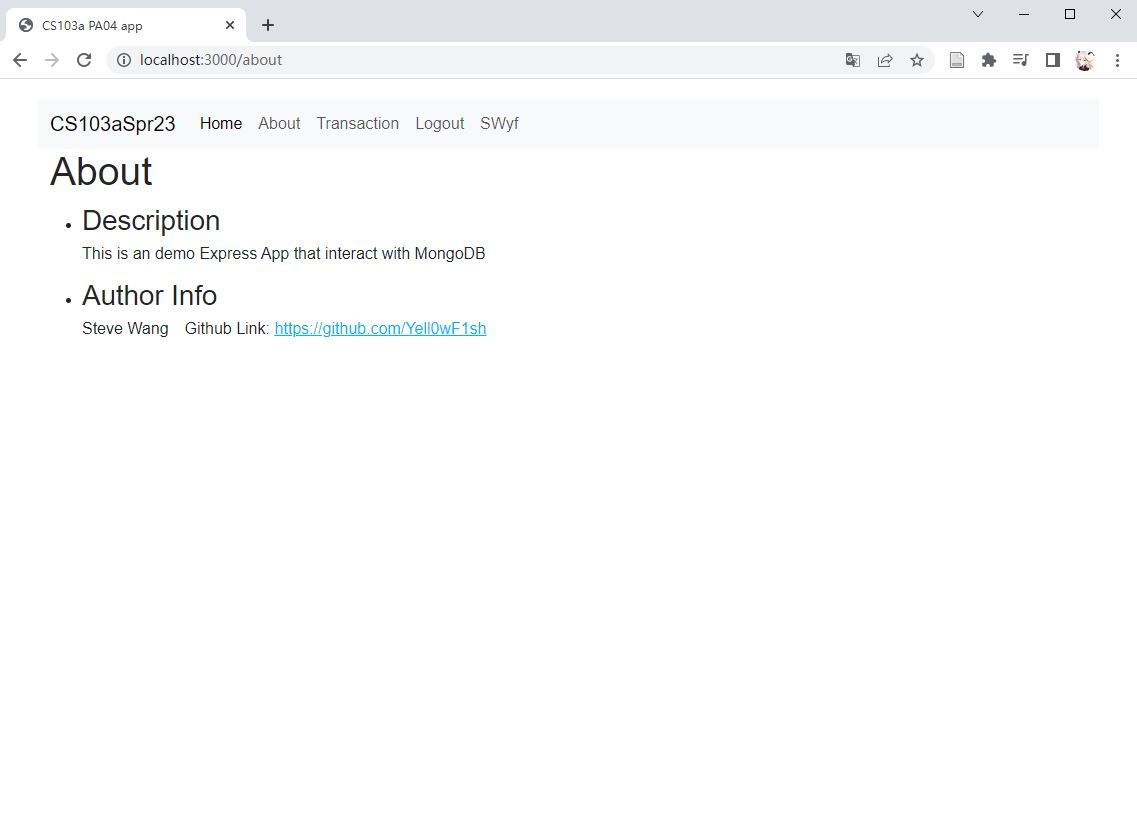
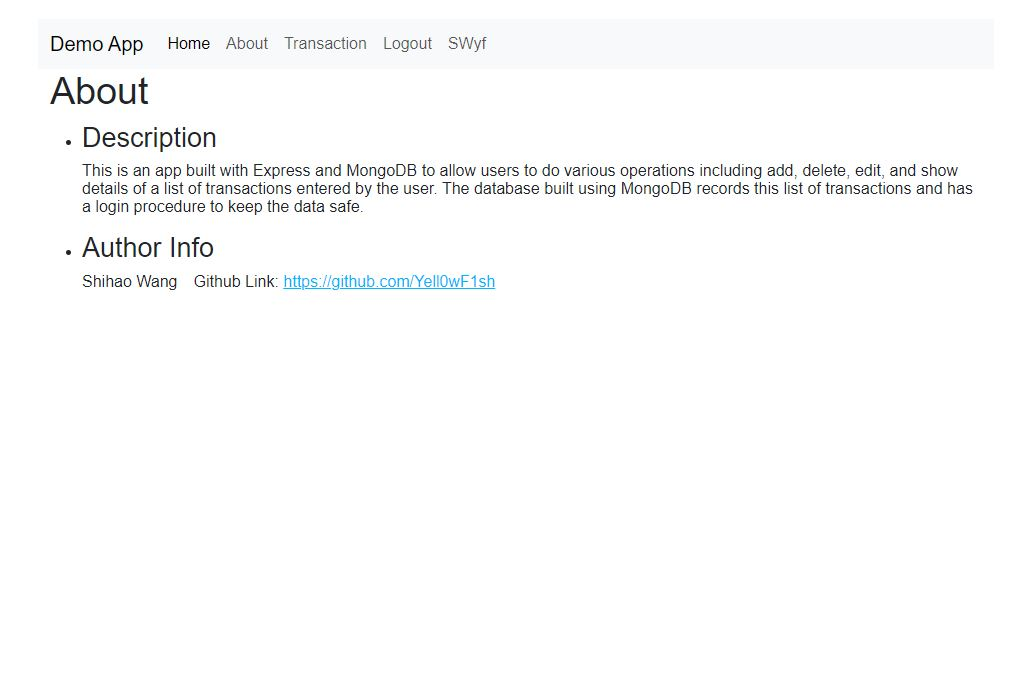
Final cleanup

diff --git a/README.md b/README.md
@@ -1,16 +1,15 @@
-# cosi103a-pa04
+# Express/MongoDB demo app
 
 ## Description
-This is a git repository which contains the code of programming assignment 04 (pa04) for cosi103a in Brandeis University.
 
 This is an app built with Express and MongoDB to allow users to do various operations including add,
-delete, edit, and show details of a list of transactions entered by the user. The database built using MongoDB records this
+delete, edit, and show details of a list of transactions entered by the user. The database is built using MongoDB which records this
 list of transactions and has a login procedure to keep the data safe. 
 
 ## Author
 
 Steve Wang
-- Email: shihaowang@brandeis.edu
+- Email: steve153163@163.com
 - Github Link: [Yell0wF1sh/github.com](https://github.com/Yell0wF1sh)
 
 ## Screenshots of the app
@@ -20,8 +19,3 @@ Steve Wang
 - **Sign up** ![signup](/src/img/signup.JPG)
 - **About** ![about](/src/img/about.JPG)
 - **Transaction** ![transaction](/src/img/transaction.JPG)
-- **Transaction grouped by category** ![transaction_group_by_category](/src/img/transaction_group_by_category.JPG)
-- **Transaction sorted by amount** ![transaction_sort_by_amount](/src/img/transaction_sort_by_amount.JPG)
-- **Transaction sorted by category** ![transaction_sort_by_category](/src/img/transaction_sort_by_category.JPG)
-- **Transaction sorted by date** ![transaction_sort_by_date](/src/img/transaction_sort_by_date.JPG)
-- **Transaction sorted by description** ![transaction_sort_by_description](/src/img/transaction_sort_by_description.JPG)
